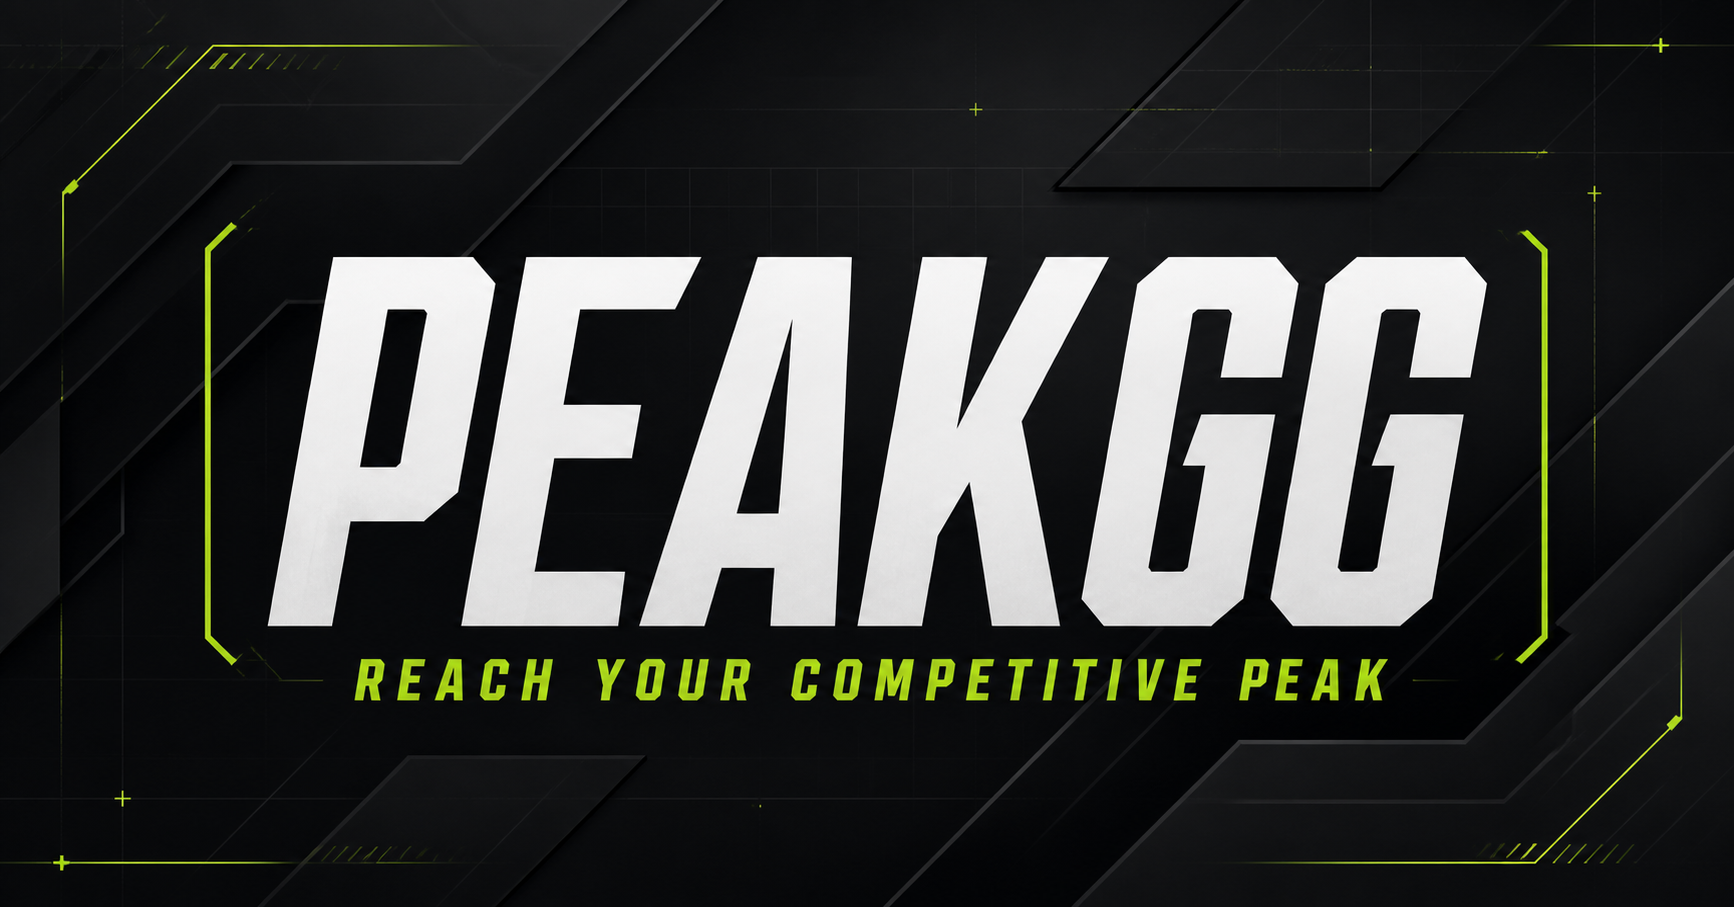
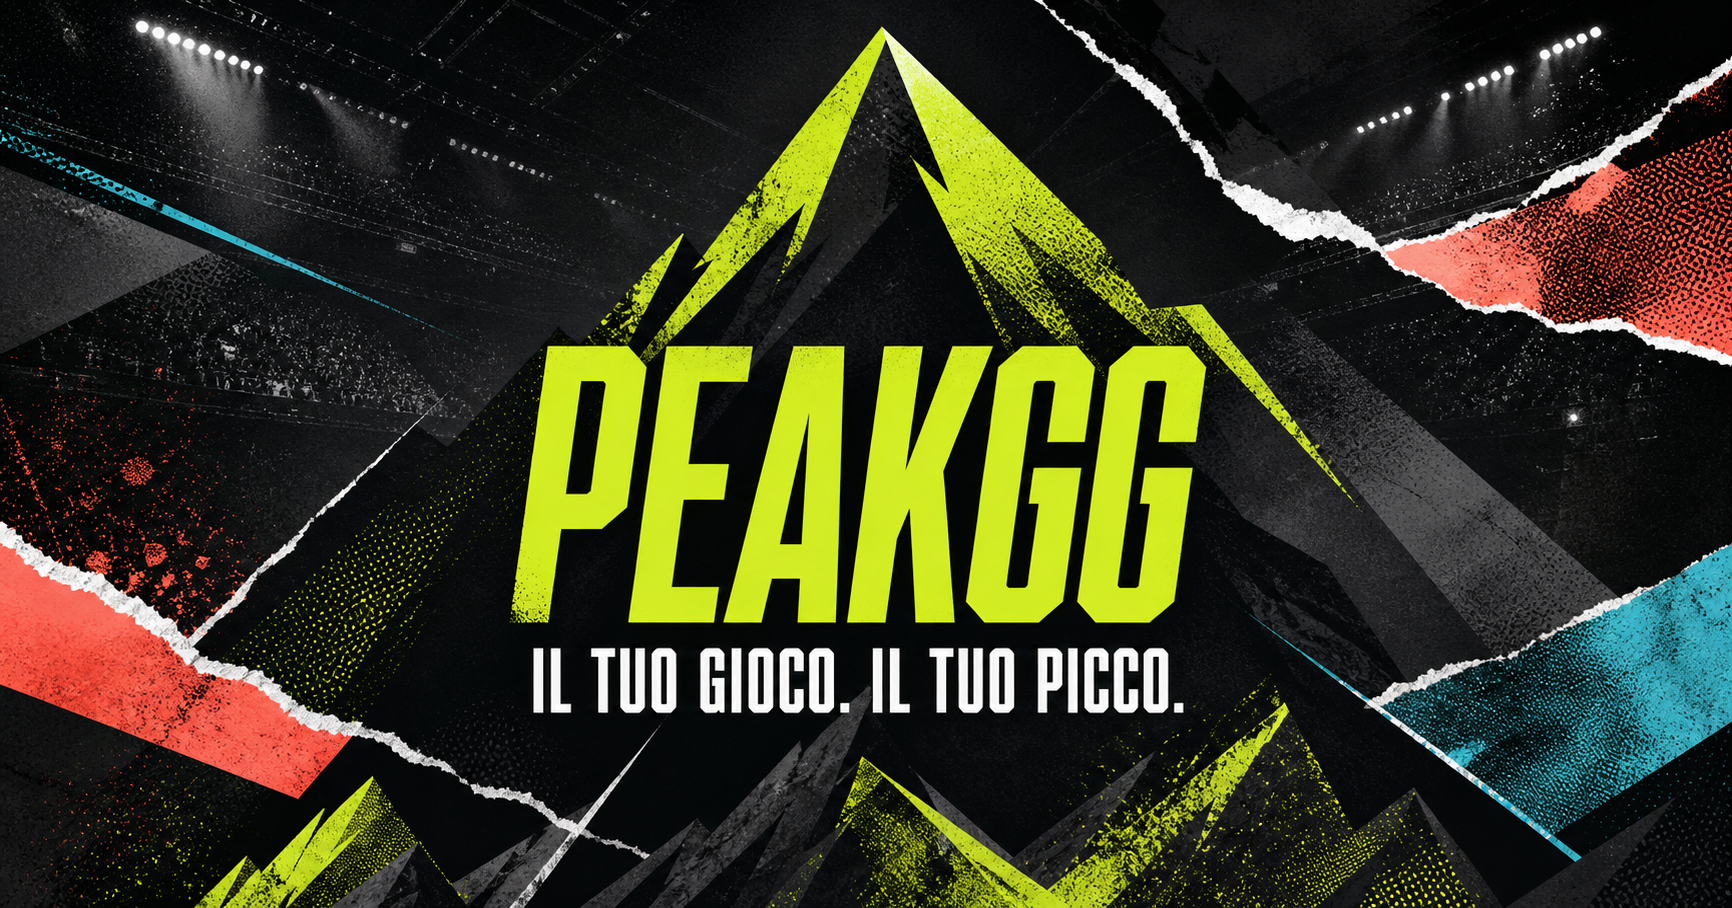
Redesign PeakGG with original visual identity

diff --git a/app/page.tsx b/app/page.tsx
@@ -17,7 +17,7 @@ export default function Home() {
     <PeakMotion>
       <main className="site-shell">
         <nav className="nav" aria-label="Navigazione principale">
-          <a className="brand" href="#top" aria-label="PeakGG home"><span className="brand-mark" aria-hidden="true">P</span><span>PEAK<span className="accent">GG</span></span></a>
+          <a className="brand" href="#top" aria-label="PeakGG home"><img className="brand-logo" src="/assets/peakgg-logo.png" alt="" /><span>PEAK<span className="accent">GG</span></span></a>
           <div className="nav-links"><a href="#competition">Competizioni</a><a href="#rankings">Rankings</a><a href="#teams">Teams</a></div>
           <a className="nav-cta" href="#join">Entra in PeakGG <span aria-hidden="true">↗</span></a>
         </nav>
@@ -31,15 +31,22 @@ export default function Home() {
             <div className="hero-actions hero-reveal"><a className="primary-action" href="#competition">Trova una competizione <span>→</span></a><a className="text-action" href="#rankings">Esplora i ranking</a></div>
             <div className="proof hero-reveal" aria-label="Statistiche dimostrative PeakGG"><div><strong>12.8K</strong><span>Player attivi</span></div><div><strong>480+</strong><span>Team verificati</span></div><div><strong>€35K</strong><span>Prize pool mensile</span></div></div>
           </div>
-          <div className="match-console hero-console" aria-label="Partite competitive">
-            <div className="console-head"><span>MATCH CENTER</span><span className="system-status">SYSTEM ONLINE</span></div>
-            <div className="featured-match"><div className="featured-meta"><span>VALORANT · PEAK SERIES</span><span className="live-label">LIVE</span></div><div className="versus"><div><span className="team-glyph">N</span><strong>NOVA</strong><small>#03 EU</small></div><p><strong>11</strong><span>MAP 2 / BO3</span><strong>9</strong></p><div><span className="team-glyph alt">K</span><strong>KRAKEN</strong><small>#07 EU</small></div></div><div className="round-progress"><span style={{ width: '64%' }} /></div></div>
-            <div className="match-list">{matches.map((match) => <div className="match-row" key={`${match.game}-${match.left}`}><span className="game-tag">{match.game}</span><span>{match.left} <i>vs</i> {match.right}</span><strong>{match.score}</strong><small>{match.phase}</small></div>)}</div>
-            <div className="console-foot"><span>UPDATED 14 SEC AGO</span><a href="#competition">VIEW ALL MATCHES →</a></div>
+          <div className="hero-art hero-console">
+            <img src="/assets/peakgg-hero.webp" alt="Tre player PeakGG entrano in un'arena competitiva" />
+            <div className="hero-art-stamp"><span>SEASON // 01</span><strong>ENTER<br />THE PEAK</strong></div>
+            <div className="match-console" aria-label="Partite competitive">
+              <div className="console-head"><span>MATCH CENTER</span><span className="system-status">LIVE</span></div>
+              <div className="match-list">{matches.slice(0, 2).map((match) => <div className="match-row" key={`${match.game}-${match.left}`}><span className="game-tag">{match.game}</span><span>{match.left} <i>vs</i> {match.right}</span><strong>{match.score}</strong><small>{match.phase}</small></div>)}</div>
+            </div>
           </div>
         </section>
 
         <div className="ticker" aria-label="Giochi supportati"><div className="ticker-track"><span>VALORANT</span><i /> <span>COUNTER-STRIKE 2</span><i /> <span>ROCKET LEAGUE</span><i /> <span>LEAGUE OF LEGENDS</span><i /> <span>VALORANT</span><i /> <span>COUNTER-STRIKE 2</span></div></div>
+
+        <section className="image-story" aria-label="La storia PeakGG">
+          <img src="/assets/peakgg-story.webp" alt="Due player analizzano insieme una partita" />
+          <div className="story-copy reveal-item"><span>THIS IS PEAKGG // 001</span><h2>NON È SOLO<br />UN ALTRO MATCH.</h2><p>È il momento in cui il talento trova una misura, un team trova il suo quinto e una performance diventa reputazione. PeakGG connette tutto ciò che succede prima, durante e dopo la competizione.</p><a href="#competition">SCOPRI L'ECOSISTEMA →</a></div>
+        </section>
 
         <section className="competition section-pad" id="competition">
           <div className="section-kicker reveal-item"><span>01</span> COMPETE</div>
@@ -69,8 +76,13 @@ export default function Home() {
           </div>
         </section>
 
+        <section className="team-poster" aria-label="Community PeakGG">
+          <img src="/assets/peakgg-team.webp" alt="Lineup di player della community PeakGG" />
+          <div className="team-title reveal-item"><span>THE COMMUNITY</span><h2>NOI SIAMO<br /><b>PEAKGG.</b></h2><p>PLAYER · TEAM · COACH · CREATOR</p></div>
+        </section>
+
         <section className="final-cta" id="join"><div className="cta-grid" aria-hidden="true"/><p className="section-kicker"><span>READY?</span> YOUR NEXT MATCH STARTS HERE</p><h2>NON GIOCARE<br />NELL’OMBRA.</h2><a href="mailto:join@peakgg.gg">CREA IL TUO PROFILO <span>↗</span></a><small>GRATIS PER I PLAYER · NESSUNA CARTA RICHIESTA</small></section>
-        <footer><a className="brand" href="#top"><span className="brand-mark">P</span><span>PEAK<span className="accent">GG</span></span></a><p>THE COMPETITIVE LAYER FOR THE NEXT GENERATION.</p><div><a href="#competition">Competizioni</a><a href="#rankings">Rankings</a><a href="#teams">Teams</a></div><span>© 2026 PEAKGG — CONCEPT HOMEPAGE</span></footer>
+        <footer><a className="brand" href="#top"><img className="brand-logo" src="/assets/peakgg-logo.png" alt="" /><span>PEAK<span className="accent">GG</span></span></a><p>THE COMPETITIVE LAYER FOR THE NEXT GENERATION.</p><div><a href="#competition">Competizioni</a><a href="#rankings">Rankings</a><a href="#teams">Teams</a></div><span>© 2026 PEAKGG — CONCEPT HOMEPAGE</span></footer>
       </main>
     </PeakMotion>
   );

diff --git a/app/globals.css b/app/globals.css
@@ -12,3 +12,7 @@
 .final-cta{position:relative;display:flex;min-height:730px;flex-direction:column;align-items:center;justify-content:center;overflow:hidden;border-top:1px solid var(--line);text-align:center;background:radial-gradient(circle at center,rgba(200,255,56,.1),transparent 35%)}.cta-grid{position:absolute;inset:0;opacity:.18;background-image:linear-gradient(var(--line) 1px,transparent 1px),linear-gradient(90deg,var(--line) 1px,transparent 1px);background-size:55px 55px;mask-image:radial-gradient(circle,#000,transparent 65%)}.final-cta>*:not(.cta-grid){position:relative}.final-cta h2{margin:35px 0;font-size:clamp(72px,10vw,150px);line-height:.78;letter-spacing:-.08em}.final-cta>a{display:flex;gap:50px;padding:18px 22px;color:#10130e;background:var(--acid);font:750 11px var(--font-mono)}.final-cta small{margin-top:18px;color:#747b71;font:600 8px var(--font-mono);letter-spacing:.1em}footer{display:grid;grid-template-columns:1fr 1.2fr 1fr;align-items:center;gap:30px;width:min(100% - 48px,1400px);min-height:170px;margin:auto;color:#737a70;font:600 9px var(--font-mono);letter-spacing:.08em}footer p{max-width:260px}footer>div{display:flex;gap:20px}footer>span{text-align:right}
 @media(max-width:900px){.section-heading,.rank-section,.path{grid-template-columns:1fr}.rank-intro,.path-sticky{position:static}.format-grid{grid-template-columns:1fr;grid-template-rows:auto}.format-main{grid-row:auto}.format-side{min-height:270px}footer{grid-template-columns:1fr 1fr}footer>span{text-align:left}.section-pad{padding:100px 0}}
 @media(max-width:600px){.section-pad{width:min(100% - 28px,1400px)}.section-heading{gap:30px;margin-bottom:45px}.format-main{min-height:540px;padding:24px}.format-orbit{width:130px;height:130px;top:82px;right:22px}.format-orbit span{font-size:42px}.format-meta{flex-direction:column;gap:8px}.rank-head{display:none}.rank-row{grid-template-columns:38px 1fr auto}.rank-row>span:nth-of-type(2),.rank-row>span:nth-of-type(3),.rank-row>b{display:none}.path-card{min-height:320px;padding:25px}.final-cta{min-height:600px}.final-cta h2{font-size:68px}footer{grid-template-columns:1fr;padding:45px 0}footer>div{flex-wrap:wrap}}
+
+.brand-logo{width:38px;height:38px;object-fit:contain;filter:drop-shadow(0 0 12px rgba(200,255,56,.16))}.hero-art{position:relative;z-index:1;min-height:650px;align-self:stretch;overflow:hidden;clip-path:polygon(7% 0,100% 0,100% 92%,92% 100%,0 100%,0 8%);background:#111}.hero-art>img{position:absolute;width:115%;height:115%;inset:-6% 0 0 -6%;object-fit:cover;will-change:transform}.hero-art::after{content:'';position:absolute;inset:0;background:linear-gradient(90deg,rgba(12,14,12,.22),transparent 32%),linear-gradient(0deg,rgba(12,14,12,.76),transparent 42%);pointer-events:none}.hero-art-stamp{position:absolute;z-index:2;top:26px;right:26px;display:flex;flex-direction:column;align-items:flex-end;color:#fff;text-align:right}.hero-art-stamp span{font:650 9px var(--font-mono);letter-spacing:.14em}.hero-art-stamp strong{margin-top:10px;font-size:24px;line-height:.88}.hero-art .match-console{position:absolute;z-index:3;right:20px;bottom:20px;left:20px;background:rgba(11,14,11,.86);backdrop-filter:blur(16px)}.hero-art .match-row{min-height:45px}.hero-art .console-head{min-height:38px}.image-story,.team-poster{position:relative;min-height:100dvh;overflow:hidden;background:#090b09}.image-story>img,.team-poster>img{position:absolute;inset:-8% 0;width:100%;height:116%;object-fit:cover;will-change:transform}.image-story::after,.team-poster::after{content:'';position:absolute;inset:0;background:linear-gradient(90deg,rgba(8,10,8,.16),rgba(8,10,8,.82) 72%),linear-gradient(0deg,rgba(8,10,8,.64),transparent 40%)}.story-copy{position:absolute;z-index:2;top:50%;right:max(7vw,30px);width:min(540px,42vw);transform:translateY(-50%)}.story-copy>span,.team-title>span{color:var(--acid);font:700 9px var(--font-mono);letter-spacing:.16em}.story-copy h2,.team-title h2{margin:24px 0;font-size:clamp(54px,7vw,106px);line-height:.82;letter-spacing:-.075em}.story-copy p{max-width:520px;color:#c2c8bf;font-size:16px;line-height:1.7}.story-copy a{display:inline-block;margin-top:20px;border-bottom:1px solid var(--acid);padding:10px 0;color:var(--acid);font:700 10px var(--font-mono)}.team-poster{min-height:920px}.team-poster::after{background:linear-gradient(0deg,rgba(8,10,8,.82),transparent 55%),linear-gradient(90deg,rgba(8,10,8,.24),transparent)}.team-title{position:absolute;z-index:2;top:12%;left:max(6vw,28px)}.team-title h2{color:#fff;font-size:clamp(66px,9vw,140px)}.team-title h2 b{color:var(--acid);font-weight:850}.team-title p{color:#d7dcd3;font:700 10px var(--font-mono);letter-spacing:.14em}
+@media(max-width:900px){.hero-art{min-height:620px}.image-story{min-height:850px}.story-copy{top:auto;right:24px;bottom:70px;left:24px;width:auto;transform:none}.image-story::after{background:linear-gradient(0deg,rgba(8,10,8,.92),transparent 70%)}.team-poster{min-height:760px}.team-title{top:9%}}
+@media(max-width:560px){.hero-art{min-height:560px}.hero-art-stamp{top:18px;right:18px}.hero-art .match-console{right:10px;bottom:10px;left:10px}.image-story{min-height:760px}.story-copy h2{font-size:52px}.team-poster{min-height:670px}.team-poster>img{object-position:53% center}.team-title h2{font-size:58px}.team-title p{font-size:8px}}

diff --git a/app/peak-motion.tsx b/app/peak-motion.tsx
@@ -20,6 +20,11 @@ export default function PeakMotion({ children }: { children: React.ReactNode }) 
         .from('.hero-console', { x: 50, autoAlpha: 0, duration: .8 }, '-=.75');
       gsap.utils.toArray<HTMLElement>('.reveal-item').forEach((el) => gsap.from(el, { y: 44, autoAlpha: 0, duration: .85, ease: 'power3.out', scrollTrigger: { trigger: el, start: 'top 84%', once: true } }));
       gsap.to('.ticker-track', { xPercent: -25, ease: 'none', scrollTrigger: { trigger: '.ticker', start: 'top bottom', end: 'bottom top', scrub: 1 } });
+      gsap.to('.hero-art > img', { yPercent: 7, scale: 1.04, ease: 'none', scrollTrigger: { trigger: '.hero', start: 'top top', end: 'bottom top', scrub: .8 } });
+      gsap.utils.toArray<HTMLElement>('.image-story, .team-poster').forEach((section) => {
+        const picture = section.querySelector('img');
+        if (picture) gsap.fromTo(picture, { yPercent: -4, scale: 1.06 }, { yPercent: 4, scale: 1, ease: 'none', scrollTrigger: { trigger: section, start: 'top bottom', end: 'bottom top', scrub: 1 } });
+      });
       gsap.utils.toArray<HTMLElement>('.path-card').forEach((card, index) => gsap.from(card, { x: 70, autoAlpha: 0, duration: .8, scrollTrigger: { trigger: card, start: 'top 82%', once: true }, delay: index * .04 }));
     });
     return () => mm.revert();

diff --git a/app/layout.tsx b/app/layout.tsx
@@ -10,7 +10,7 @@ export const metadata: Metadata = {
   openGraph: {
     title: 'PeakGG — Reach Your Competitive Peak',
     description: 'Competizioni, ranking verificati e scouting per la nuova generazione di player.',
-    images: [{ url: '/og.png', width: 1536, height: 804, alt: 'PeakGG — Reach Your Competitive Peak' }],
+    images: [{ url: '/og.png', width: 1732, height: 908, alt: 'PeakGG — Il tuo gioco. Il tuo picco.' }],
   },
   twitter: {
     card: 'summary_large_image',
